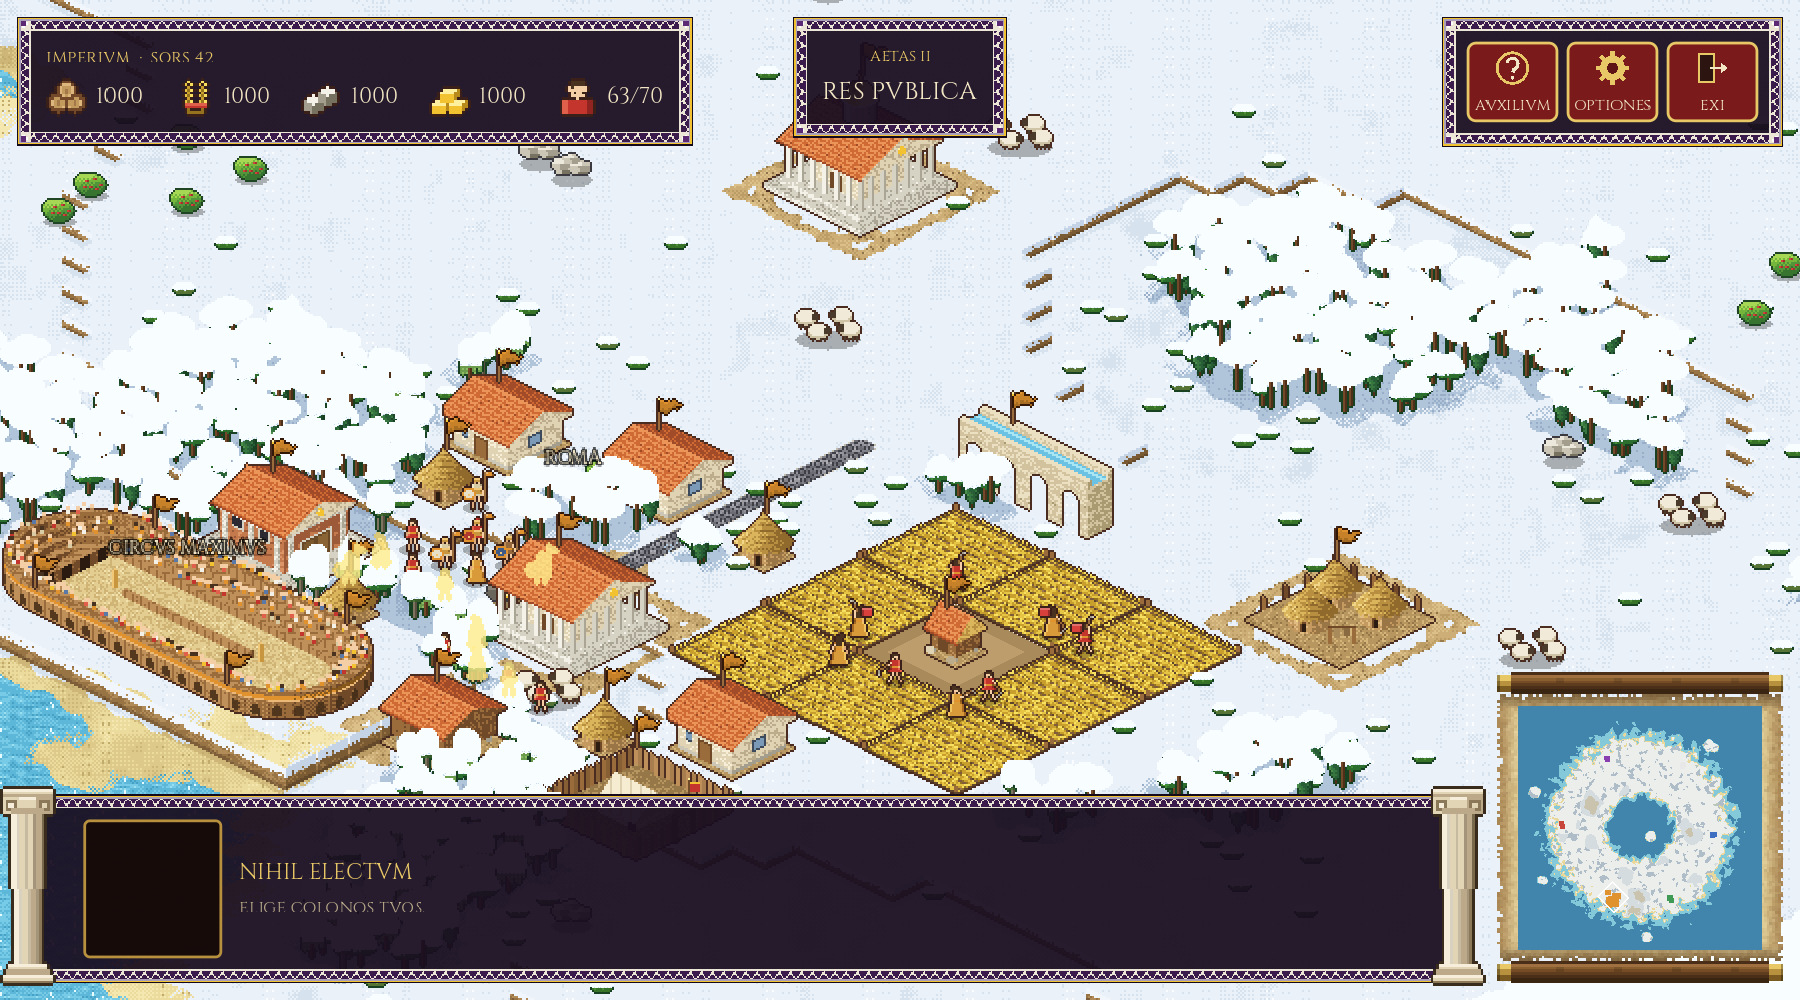
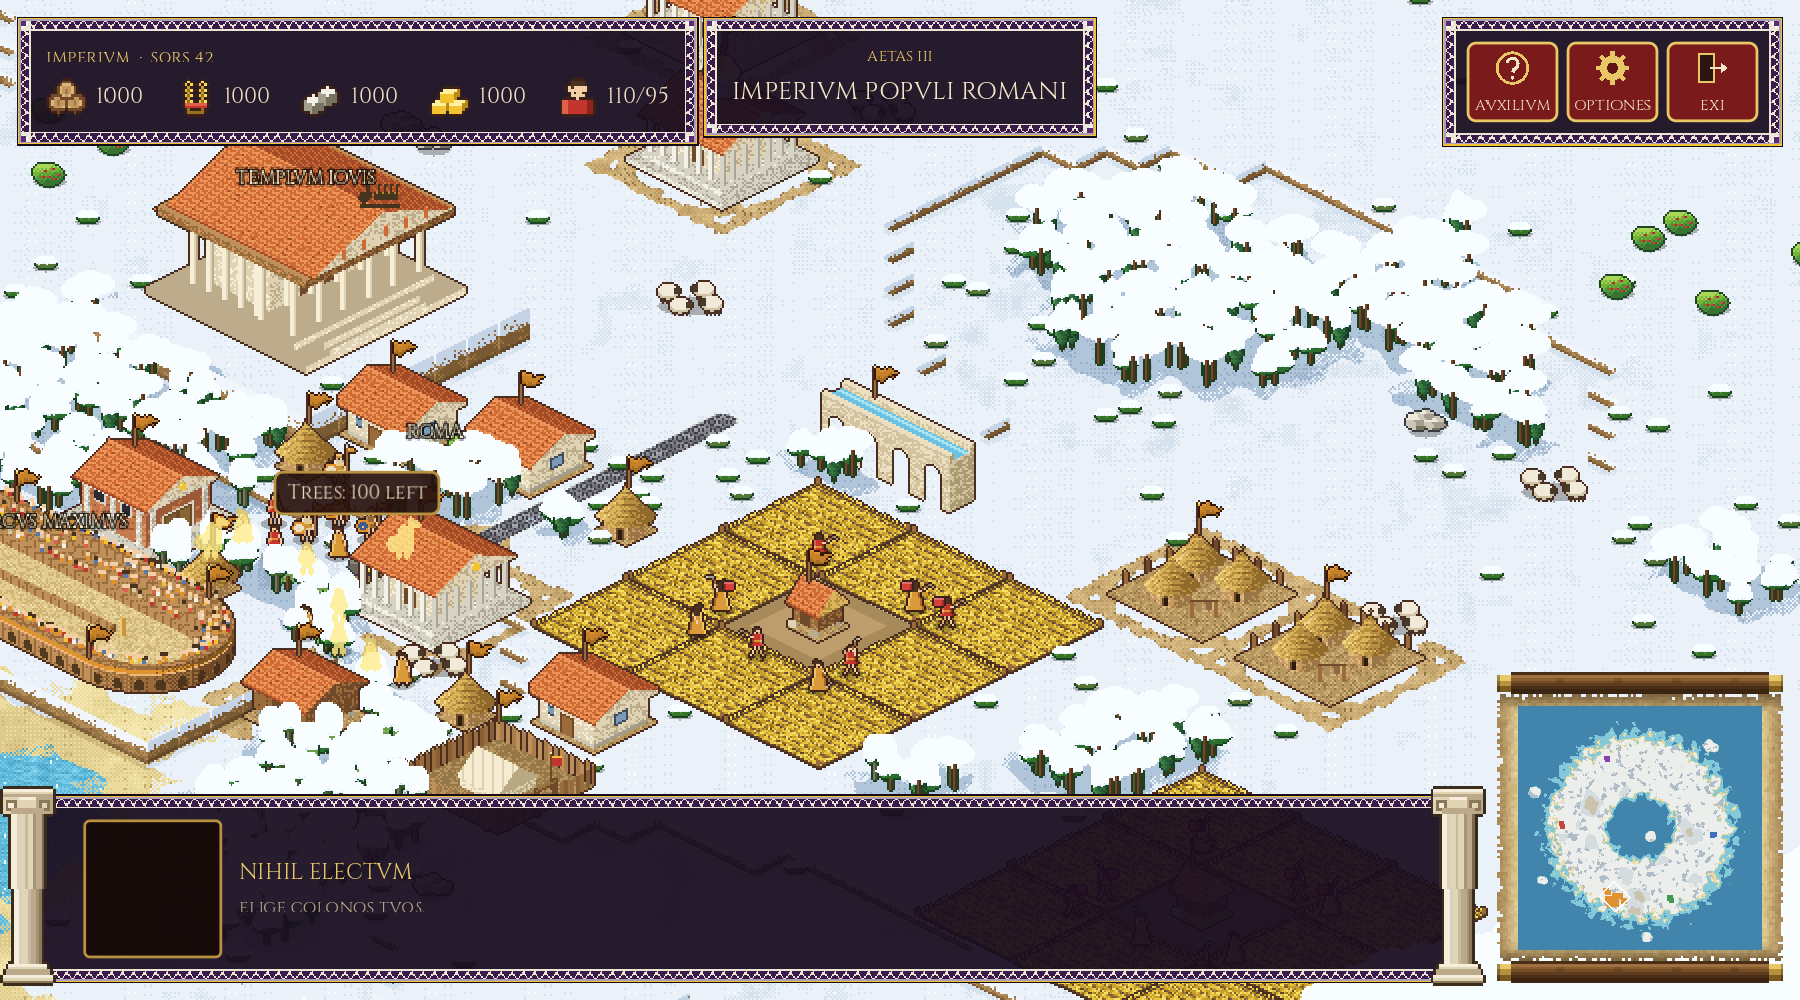
Screenshots: village with the Temple of Jupiter, the temple, buildouts in three climates and in rain, dock, combat

diff --git a/README.md b/README.md
@@ -27,7 +27,11 @@ with five citizens, no army and nothing in store: a couple of berry bushes and a
 town are the first food, the woods the first wood, and everything else must be saved for. Its hearth
 burns, the trees sway in the wind, and everything of yours flies the Roman purple.
 
-![The Casa Romuli at the start: five citizens, nothing in store, a few berry bushes, the sea and the Circus beyond](docs/screenshots/village.png)
+![The start: the Casa Romuli with five citizens and nothing in store, the Temple of Jupiter on its hill and the Circus Maximus beside it](docs/screenshots/village.png)
+
+**The Capitoline.** Near the city from the first moment stand two landmarks nobody owns: the Circus Maximus in the valley and the great Temple of Jupiter Optimus Maximus on a hill of its own, with its bronze quadriga on the roof. Neither can be built or burned.
+
+![The Temple of Jupiter on its raised platform, beside the Circus Maximus](docs/screenshots/jupiter.png)
 
 **The Circus Maximus.** A landmark stadium stands in the valley near the city: four tiers of timber
 seating, a sand track, a ring of arches round the base, and a crowd that cheers in waves.
@@ -72,7 +76,7 @@ ripples the water, storms roughen it, and fog drifts in banks.
 
 | Rain | Fog |
 |---|---|
-| ![Rain falling over a Republican Forum and aqueduct](docs/screenshots/republic-rain.png) | ![Fog rolling over the village](docs/screenshots/fog.png) |
+| ![Rain falling over a built-up Republican town, the Temple of Jupiter and the Circus](docs/screenshots/republic-rain.png) | ![Fog rolling over the village](docs/screenshots/fog.png) |
 
 **Fighting men.** Horsemen (Equites), spearmen (Pedites) and slingers (Funditores) in the color of
 their owner: purple for you, a different color for another player.
